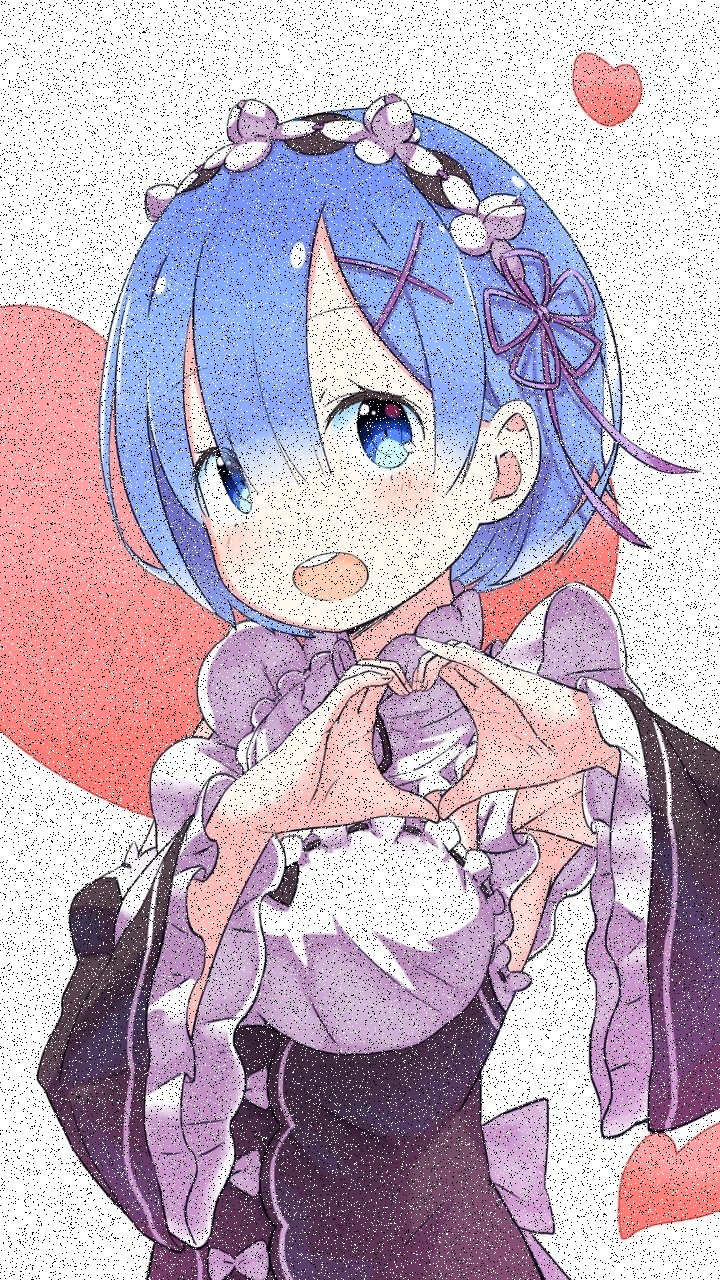
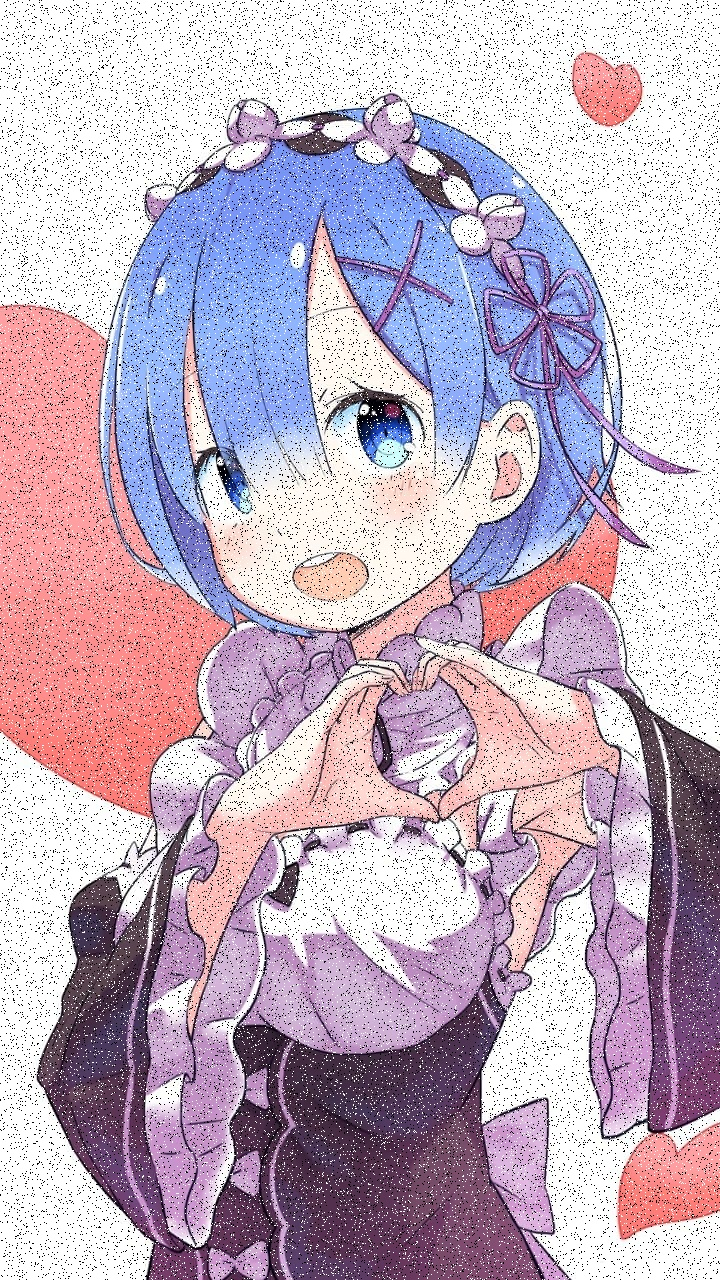
test completed

diff --git a/Lab1_sending_images_with_sockets/Noise.py b/Lab1_sending_images_with_sockets/Noise.py
@@ -1,0 +1,54 @@
+import socket
+from random import random
+
+from ImageSender import ImageSender
+
+
+class Noise(ImageSender):
+    def __init__(self, host, noise_port, server_port, block_size=1024, noise_probability=0.1):
+        super().__init__(block_size, 'Noise')
+        # Receives image from the client
+        self.recv_socket = socket.socket(socket.AF_INET, socket.SOCK_STREAM)
+        self.host = host
+        self.recv_socket.bind((host, noise_port))
+        self.recv_socket.listen()
+        self.noise_port = noise_port
+
+        # Sends image to the server
+        self.send_socket = socket.socket(socket.AF_INET, socket.SOCK_STREAM)
+        self.server_port = server_port
+
+        self.noise_probability = noise_probability
+
+    def run(self):
+        with self.recv_socket as s:
+            self.log(f'Подключение к порту {self.noise_port}')
+            conn, _ = s.accept()
+            self.log('Подключено. Получение изображения.')
+            image = self.recv_image(conn)
+
+        noise_image = self.noise(image, self.noise_probability)
+        with self.send_socket as s:
+            s.connect((self.host, self.server_port))
+            self.send_image(image, s)
+            self.send_image(noise_image, s)
+
+    @staticmethod
+    def noise(img, noise_prob=0.1):
+        img = img.copy()
+        height, width, _ = img.shape
+        for y in range(height):
+            for x in range(width):
+                if random() < noise_prob:
+                    img[y, x] = int(random() > 0.5) * 255
+        return img
+
+
+if __name__ == '__main__':
+    server = Noise(
+        host='localhost_lab1',
+        noise_port=1000,
+        server_port=1001,
+        noise_probability=0.1
+    )
+    server.start()
